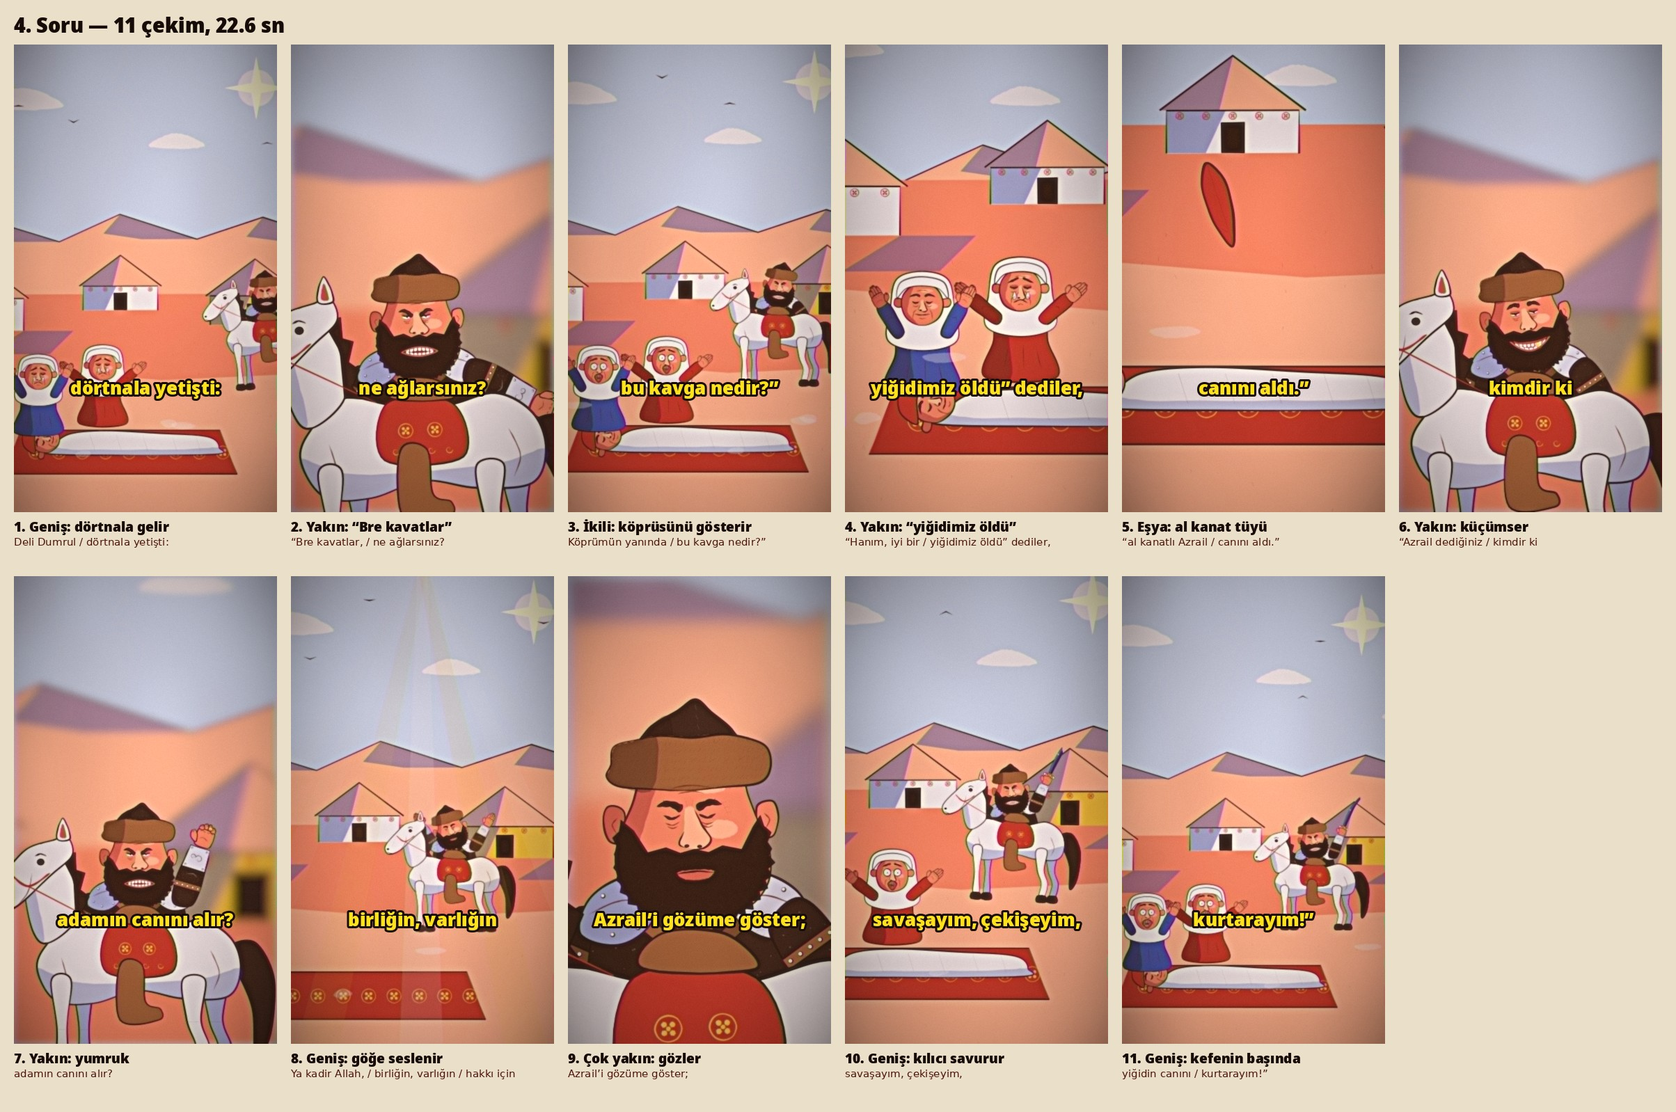
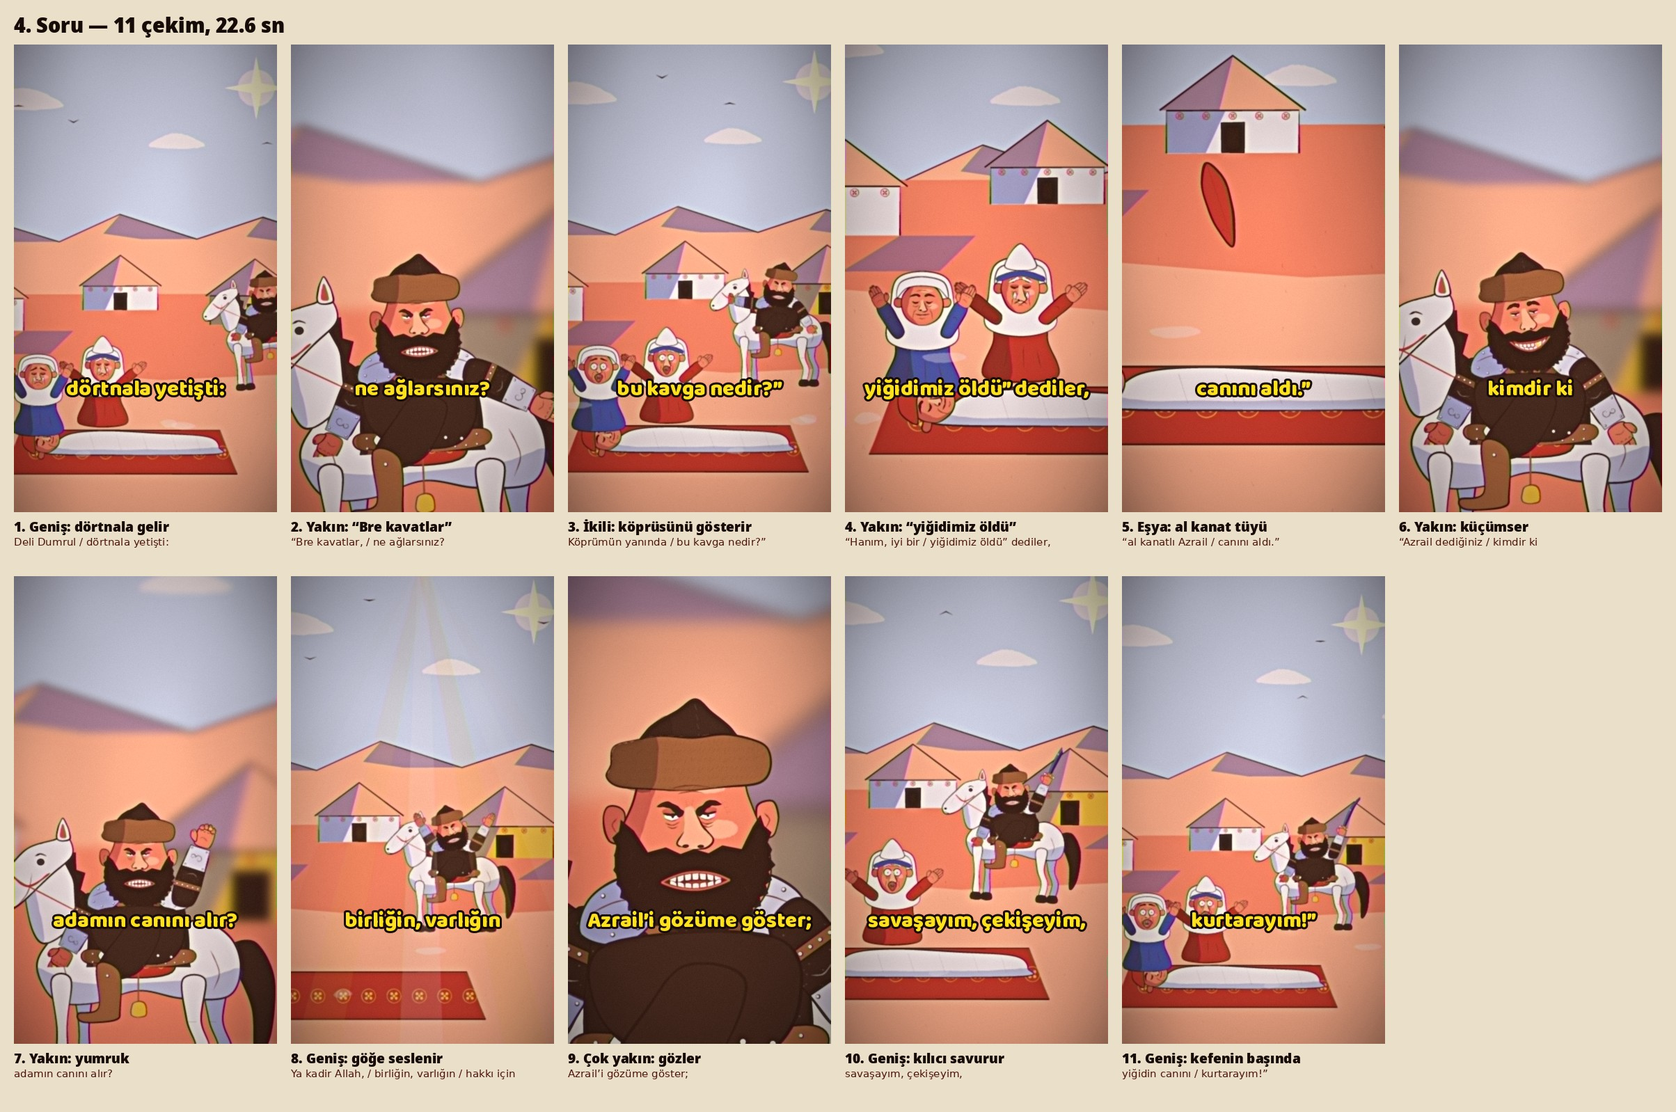
Çizim düzeltmeleri: yerdeki çekimlerin kadrajı, taçlı ulu ağaç, eşin öfkesi, yandan binici, hasta yiğit, üç ayrı yas tutan, otuz üç akçe

diff --git a/shorts/deli_dumrul/scenes.py b/shorts/deli_dumrul/scenes.py
@@ -9,7 +9,7 @@ TITLES = {'kopru': '1. Köprü', 'ovunme': '2. Övünme', 'oba': '3. Oba', 'soru
 
 
 # ----------------------------------------------------------------------------- ekran uzayı çizimleri (eşya çekimleri)
-def fx_coins(n=9, big=False, palm=True):
+def fx_coins(n=9, big=False, palm=True, small=False):
     """Akçeler: avuç açıksa içine birikir, değilse karenin önünden yağar."""
     def fx(u):
         s = at(C.hand(True, 'open', True, 1), 560, 1180, 4.6, 196) if palm else ''
@@ -19,7 +19,7 @@ def fx_coins(n=9, big=False, palm=True):
             k = min(1.0, max(0.0, (u - t0) / 0.18))
             if k <= 0: continue
             y = lerp(-80, (1010 + dy * 0.8) if palm else 2100, ease(k) if palm else k) - (math.sin(k * 3.14) * 40 if k < 1 and palm else 0)
-            s += K.coin(540 + dx * (0.7 if palm else 2.4), y, 44 if big else 36)
+            s += K.coin(540 + dx * (0.7 if palm else 2.4), y, 44 if big else 24 if small else 36)
         return s
     return fx
 
@@ -81,7 +81,7 @@ SCENES['kopru'] = [
          a=[('dumrul', dict(D, e='smug', armR=-20), dict(armR=-96, hr=8), 0.2)]),
     dict(n='İkili: bezirgân köprüde', c='Geçenden', set='bridge', cam=[(560, 1020, 1.6), (620, 1000, 1.8)],
          a=[('dumrul', dict(D, x=800, y=826, e='smug', armL=10), dict(armL=74, hr=-5), 0.3), ('trav', dict(x=300, y=1010, s=0.42, e='fear', walk=True), dict(x=520, y=948, glide=True), 0.0)]),
-    dict(n='Eşya: otuz üç akçe', c='otuz üç akçe alır,', set='bridge', cam=[(700, 1000, 2.2), (720, 1000, 2.3)], blur=True, a=[], fx=fx_coins(11)),
+    dict(n='Eşya: otuz üç akçe', c='otuz üç akçe alır,', set='bridge', cam=[(700, 1000, 2.2), (720, 1000, 2.3)], blur=True, a=[], fx=fx_coins(33, small=True)),
     dict(n='Tepki: çayın içinden kaçan', c='geçmeyenden', set='bridge', cam=[(640, 1300, 1.35), (800, 1320, 1.5)],
          a=[('dumrul', dict(D, e='neutral'), dict(e='anger', armL=44, hr=10), 0.35), ('trav', dict(x=420, y=1420, s=0.36, e='fear', walk=True), dict(x=900, y=1400, glide=True), 0.0)]),
     dict(n='Yakın: döve döve', c='döve döve', set='bridge', cam=[(760, 1330, 1.8), (760, 1330, 2.05)], punch=True, still=0.5,
@@ -113,9 +113,9 @@ SCENES['oba'] = [
     dict(n='Geniş: oba', c='Bir gün köprüsünün yamacına|bir bölük oba konmuştu.', set='oba', cam=[(750, 1080, 1.0), (750, 1160, 1.2)],
          a=[('mourner0', dict(x=420, y=1330, s=0.42, e='neutral', walk=True), dict(x=560, glide=True), 0.0), ('extra1', dict(x=1080, y=1340, s=0.44)), ('boy0', dict(x=880, y=1440, s=0.5))]),
     dict(n='Yakın: hasta yiğit', c='O obada iyi, güzel|bir yiğit hastalandı;', set='oba', cam=[(560, 1640, 1.8), (640, 1650, 2.05)],
-         a=[DEAD, ('mourner1', dict(M[1], x=820, e='neutral'), dict(e='fear'), 0.5)]),
+         a=[('dead', dict(DEAD[1], sick=True)), ('mourner1', dict(M[1], x=820, e='neutral'), dict(e='fear'), 0.5)]),
     dict(n='Geniş: ışık söner', c='Allah’ın buyruğuyla öldü.', set='oba', cam=[(760, 1560, 1.5), (760, 1580, 1.6)],
-         a=[DEAD, ('mourner1', dict(M[1], x=820, e='fear'), dict(e='shock'), 0.4)], fx=fx_fade_beam()),
+         a=[('dead', dict(DEAD[1], sick=True), dict(sick=False), 0.55), ('mourner1', dict(M[1], x=820, e='fear'), dict(e='shock'), 0.6)], fx=fx_fade_beam()),
     dict(n='Yakın: “oğul”', c='Kimi “oğul” diye,', set='oba', cam=[(480, 1420, 2.2), (480, 1410, 2.5)], punch=True, blur=True,
          a=[('mourner0', dict(M[0], e='grief', shake=1))]),
     dict(n='Yakın: “kardeş”', c='kimi “kardeş” diye ağladı;', set='oba', cam=[(1040, 1420, 2.2), (1040, 1410, 2.5)], punch=True, blur=True,
@@ -244,8 +244,8 @@ def both(*fns):
 
 
 FD = dict(x=880, y=1215, s=0.6)                 # Dumrul sofrada
-LIE = dict(x=560, y=1600, s=0.5, rot=-90, z=1700)   # Dumrul sırtüstü yerde; başı solda
-AZC = dict(x=700, y=1280, s=0.34, z=1800)       # Azrail göğsünün üstünde
+LIE = dict(x=560, y=1400, s=0.5, rot=-90, z=1700)   # Dumrul sırtüstü yerde; başı solda
+AZC = dict(x=700, y=1080, s=0.34, z=1800)       # Azrail göğsünün üstünde
 CROWD = [('extra1', dict(x=620, y=1340, s=0.62, robe=C.GOLD)), ('extra0', dict(x=1180, y=1420, s=0.66, robe=C.COBALT, flip=True)), ('extra2', dict(x=110, y=1668, s=0.72)), ('extra2', dict(x=1390, y=1330, s=0.56, robe=C.RED, flip=True))]
 
 SCENES['at'] = [
@@ -266,38 +266,38 @@ SCENES['at'] = [
          a=[('rider', dict(x=900, y=1400, s=0.5, e='neutral', flip=True), dict(spooked=True, e='shock'), 0.2), ('azrail', dict(x=1330, y=1500, s=0.5, e='wrath', spread=0.4), dict(y=1160, spread=1.4, armL=40, armR=-40), 0.1)]),
     dict(n='Geniş: at şaha kalkar', c='At ürktü,', set='steppe', cam=[(900, 1200, 1.3), (880, 1180, 1.45)], punch=True,
          a=[('rider', dict(x=900, y=1400, s=0.5, e='shock', flip=True, spooked=True, armL=120, armR=-120), dict(rot=-26, y=1360), 0.05), ('azrail', dict(x=1330, y=1160, s=0.5, e='wrath', spread=1.4, armL=40, armR=-40))]),
-    dict(n='Geniş: yere çarpar', c='Dumrul’u kaldırıp|yere vurdu.', set='steppe', cam=[(700, 1300, 1.3), (640, 1420, 1.5)],
+    dict(n='Geniş: yere çarpar', c='Dumrul’u kaldırıp|yere vurdu.', set='steppe', cam=[(700, 1180, 1.3), (640, 1250, 1.5)],
          a=[('horse', dict(x=1080, y=1400, s=0.5, flip=True, spooked=True, rot=-14, gallop=True), dict(x=1500, glide=True), 0.2),
             ('dumrul', dict(x=860, y=1000, s=0.5, e='shock', rot=-30, armL=120, armR=-120, z=1700), dict(LIE, glide=True), 0.0)], fx=fx_impact(470, 1250), still=0.8),
-    dict(n='Yakın: sersemlemiş', c='Kara başı bunaldı;', set='steppe', cam=[(460, 1560, 2.4), (470, 1560, 2.6)], blur=True,
-         a=[('dumrul', dict(LIE, e='shock', shake=0.6))], fx=fx_stars(430, 800)),
-    dict(n='Geniş: Azrail göğsüne konar', c='ak göğsünün üstüne|Azrail basıp kondu.', set='steppe', cam=[(700, 1400, 1.5), (700, 1420, 1.7)], hold=0.8,
-         a=[('dumrul', dict(LIE, e='shock', armL=60, armR=-60)), ('azrail', dict(AZC, y=700, e='wrath', spread=1.4), dict(y=1280, spread=1.0), 0.05)]),
+    dict(n='Yakın: sersemlemiş', c='Kara başı bunaldı;', set='steppe', cam=[(500, 1320, 1.9), (500, 1320, 2.1)], blur=True,
+         a=[('dumrul', dict(LIE, e='shock', shake=0.6))], fx=fx_stars(470, 760)),
+    dict(n='Geniş: Azrail göğsüne konar', c='ak göğsünün üstüne|Azrail basıp kondu.', set='steppe', cam=[(700, 1200, 1.5), (700, 1220, 1.7)], hold=0.8,
+         a=[('dumrul', dict(LIE, e='shock', armL=60, armR=-60)), ('azrail', dict(AZC, y=500, e='wrath', spread=1.4), dict(y=1080, spread=1.0), 0.05)]),
 ]
 
 SCENES['yalvaris'] = [
-    dict(n='Yakın: “aman!”', c='“Bre Azrail, aman!', set='steppe', cam=[(460, 1560, 2.3), (470, 1556, 2.6)], punch=True, blur=True,
+    dict(n='Yakın: “aman!”', c='“Bre Azrail, aman!', set='steppe', cam=[(500, 1320, 1.9), (500, 1320, 2.2)], punch=True, blur=True,
          a=[('dumrul', dict(LIE, e='shock', shake=1))]),
-    dict(n='İkili: göğsünde Azrail', c='Ben seni böyle bilmezdim,', set='steppe', cam=[(680, 1400, 1.6), (700, 1390, 1.75)],
+    dict(n='İkili: göğsünde Azrail', c='Ben seni böyle bilmezdim,', set='steppe', cam=[(680, 1200, 1.6), (700, 1190, 1.75)],
          a=[('dumrul', dict(LIE, e='shock', armL=70, armR=-70)), ('azrail', dict(AZC, e='stern'))]),
-    dict(n='Yakın: Azrail, kıpırtısız', c='uğrulayın can aldığını|duymazdım.', set='steppe', cam=[(700, 1230, 3.2), (700, 1226, 3.5)], blur=True,
+    dict(n='Yakın: Azrail, kıpırtısız', c='uğrulayın can aldığını|duymazdım.', set='steppe', cam=[(700, 1030, 3.2), (700, 1026, 3.5)], blur=True,
          a=[('azrail', dict(AZC, e='stern'))]),
     dict(n='Geniş: dağlar, bağlar', c='Bizim dağlarımızın bağları,', set='bridge', cam=[(300, 860, 1.6), (1100, 840, 1.6)], a=[], fx=fx_big(grapes, 820, 1040, 1.6, 8, 8)),
     dict(n='Eşya: kara salkım', c='o bağların|kara salkımlı üzümü,', set='bridge', cam=[(700, 860, 1.8), (720, 850, 1.9)], blur=True, a=[], fx=fx_big(grapes, 540, 900, 3.6, 0, 10)),
     dict(n='Eşya: al şarap', c='o üzümün|al şarabı olur.', set='feast', cam=[(700, 1200, 1.8), (700, 1200, 1.9)], blur=True, nofore=True, a=[], fx=fx_pour()),
-    dict(n='Yakın: sarhoş bahanesi', c='Şaraplıydım,|ne söylediğimi bilmedim.', set='steppe', cam=[(460, 1560, 2.3), (480, 1556, 2.5)], blur=True,
-         a=[('dumrul', dict(LIE, e='smug', shake=0.5))], fx=fx_stars(430, 800, 3, 200)),
-    dict(n='İkili: iki eliyle yalvarır', c='Beyliğe usanmadım,|yiğitliğe doymadım;', set='steppe', cam=[(680, 1420, 1.6), (680, 1410, 1.75)],
+    dict(n='Yakın: sarhoş bahanesi', c='Şaraplıydım,|ne söylediğimi bilmedim.', set='steppe', cam=[(500, 1320, 1.9), (510, 1320, 2.1)], blur=True,
+         a=[('dumrul', dict(LIE, e='smug', shake=0.5))], fx=fx_stars(470, 760, 3, 200)),
+    dict(n='İkili: iki eliyle yalvarır', c='Beyliğe usanmadım,|yiğitliğe doymadım;', set='steppe', cam=[(680, 1220, 1.6), (680, 1210, 1.75)],
          a=[('dumrul', dict(LIE, e='shock', armL=40, armR=-40), dict(armL=130, armR=-130), 0.15), ('azrail', dict(AZC, e='stern'))]),
-    dict(n='Çok yakın: korku', c='canımı alma!”', set='steppe', cam=[(440, 1568, 3.6), (440, 1566, 4.2)], punch=True, blur=True,
+    dict(n='Çok yakın: korku', c='canımı alma!”', set='steppe', cam=[(470, 1350, 3.0), (470, 1350, 3.5)], punch=True, blur=True,
          a=[('dumrul', dict(LIE, e='shock', shake=1))]),
-    dict(n='Yakın: Azrail konuşur', c='Azrail dedi:|“Bre deli kavat,', set='steppe', cam=[(700, 1230, 3.0), (700, 1226, 3.3)], blur=True,
+    dict(n='Yakın: Azrail konuşur', c='Azrail dedi:|“Bre deli kavat,', set='steppe', cam=[(700, 1030, 3.0), (700, 1026, 3.3)], blur=True,
          a=[('azrail', dict(AZC, e='stern'), dict(e='speak'), 0.3)]),
-    dict(n='Geniş: göğü gösterir', c='bana ne yalvarırsın?|Allah’a yalvar.', set='steppe', cam=[(700, 1380, 1.5), (700, 1180, 1.5)],
+    dict(n='Geniş: göğü gösterir', c='bana ne yalvarırsın?|Allah’a yalvar.', set='steppe', cam=[(700, 1180, 1.5), (700, 980, 1.5)],
          a=[('dumrul', dict(LIE, e='shock')), ('azrail', dict(AZC, e='speak', armR=-10), dict(armR=-168), 0.15)], fx=fx_rays(0.35)),
-    dict(n='Yakın: boş eller', c='Benim elimde ne var;', set='steppe', cam=[(700, 1300, 2.4), (700, 1296, 2.6)], blur=True,
+    dict(n='Yakın: boş eller', c='Benim elimde ne var;', set='steppe', cam=[(700, 1100, 2.4), (700, 1096, 2.6)], blur=True,
          a=[('azrail', dict(AZC, e='neutral', armL=10, armR=-10), dict(armL=62, armR=-62), 0.15)]),
-    dict(n='Geniş: buyruk kulu', c='ben de bir|yumuş oğlanıyım.”', set='steppe', cam=[(700, 1400, 1.6), (700, 1340, 1.4)], hold=0.6,
+    dict(n='Geniş: buyruk kulu', c='ben de bir|yumuş oğlanıyım.”', set='steppe', cam=[(700, 1200, 1.6), (700, 1140, 1.4)], hold=0.6,
          a=[('dumrul', dict(LIE, e='shock')), ('azrail', dict(AZC, e='neutral', armL=62, armR=-62), dict(hr=16, spread=0.6), 0.2)], fx=fx_rays(0.4)),
 ]
 
@@ -401,7 +401,7 @@ SCENES['veda'] = [
 
 SCENES['es'] = [
     dict(n='Yakın: “ne dersin?”', c='Kadın dedi:|“Ne dersin, ne söylersin?', set='inside', cam=[(920, 1180, 2.3), (920, 1176, 2.6)], punch=True, blur=True,
-         a=[('wife', dict(WI, e='grief'), dict(e='anger'), 0.3)]),
+         a=[('wife', dict(WI, e='grief'), dict(e='scold'), 0.3)]),
     dict(n='İkili: elini uzatır', c='Göz açıp gördüğüm,|gönül verip sevdiğim|koç yiğidim!', set='inside', cam=[(760, 1220, 1.6), (760, 1216, 1.75)],
          a=[('dumrul', dict(DI, x=600, e='neutral', hr=10)), ('wife', dict(WI, e='grief', armL=12), dict(armL=96, e='joy'), 0.2)]),
     dict(n='Geniş: dağlar', c='Senden sonra kara dağlarını|ben neyleyim?', set='steppe', cam=[(1100, 880, 1.5), (500, 900, 1.5)], a=[]),
@@ -410,9 +410,9 @@ SCENES['es'] = [
     dict(n='Tepki: sırtını dönen ana baba', c='Senin o muhannet|anan baban', set='inside', cam=[(700, 1260, 1.4), (720, 1260, 1.5)],
          a=[('father', dict(FA, x=480, e='refuse', flip=True)), ('mother', dict(MO, x=900, e='refuse', hr=14))]),
     dict(n='Yakın: öfke', c='bir canda ne var ki|sana kıyamamışlar?', set='inside', cam=[(920, 1180, 2.5), (920, 1176, 2.8)], blur=True,
-         a=[('wife', dict(WI, e='anger', shake=0.6))]),
+         a=[('wife', dict(WI, e='scold', shake=0.6))]),
     dict(n='Geniş: yeri, göğü gösterir', c='Yer tanık olsun,|gök tanık olsun,', set='oba', cam=[(760, 1500, 1.3), (760, 1000, 1.3)],
-         a=[('wife', dict(x=760, y=1300, s=0.5, e='anger', armR=-12), dict(armR=-170, armL=30), 0.4)]),
+         a=[('wife', dict(x=760, y=1300, s=0.5, e='scold', armR=-12), dict(armR=-170, armL=30), 0.4)]),
     dict(n='Yakın: ışık altında', c='kadir Tanrı|tanık olsun:', set='oba', cam=[(760, 1230, 2.0), (760, 1220, 2.2)], blur=True,
          a=[('wife', dict(x=760, y=1300, s=0.5, e='grief', armL=150, armR=-150))], fx=fx_rays(0.5)),
     dict(n='İkili: canını sunar', c='benim canım|senin canına|kurban olsun!”', set='inside', cam=[(760, 1240, 1.5), (760, 1230, 1.65)], punch=True, hold=0.8,
@@ -467,7 +467,7 @@ SCENES['dede'] = [
     dict(n='Yakın: dua', c='Sonra dua etti:', set='feast', cam=[(640, 1130, 2.0), (640, 1100, 2.2)], blur=True, nofore=True,
          a=[('dede', dict(DK, e='neutral', hr=-10))], fx=fx_rays(0.35)),
     dict(n='Geniş: kara dağlar', c='“Yerli kara dağların|yıkılmasın.', set='steppe', cam=[(500, 900, 1.5), (1100, 880, 1.5)], a=[]),
-    dict(n='Eşya: ulu ağaç', c='Gölgeli ulu ağacın|kesilmesin.', set='steppe', cam=[(260, 1100, 1.6), (260, 980, 1.8)], a=[]),
+    dict(n='Eşya: ulu ağaç', c='Gölgeli ulu ağacın|kesilmesin.', set='steppe', cam=[(330, 980, 1.25), (330, 880, 1.45)], a=[]),
     dict(n='Eşya: coşkun su', c='Coşkun akan güzel suyun|kurumasın.', set='river', cam=[(560, 1500, 1.4), (940, 1500, 1.5)], a=[]),
     dict(n='Yakın: son söz', c='Kadir Tanrı seni|namerde muhtaç etmesin.”', set='feast', cam=[(640, 1130, 2.0), (640, 1140, 1.7)], nofore=True, hold=1.5,
          a=[('dede', dict(DK, e='joy'))], fx=fx_rays(0.3)),

diff --git a/shorts/deli_dumrul/cast2.py b/shorts/deli_dumrul/cast2.py
@@ -12,6 +12,7 @@ EX = {
     'anger':   dict(b=0.6, by=8, open=0.7, m='snarl'),
     'joy':     dict(b=-0.12, by=-5, open=0.5, m='smile'),
     'refuse':  dict(b=-0.35, by=-7, open=0.0, m='purse'),
+    'scold':   dict(b=0.5, by=6, open=0.85, m='frown'),            # çatık kaş, sıkılmış ağız: öfke ama diş göstermeden
     'shock':   dict(b=-0.3, by=-18, open=1.0, m='gape', shock=True),
 }
 DROP = {'o': 0.07, 'gape': 0.2, 'snarl': 0.05, 'grin': 0.04}
@@ -257,16 +258,30 @@ def mourner(kind=0, expr='grief'):
     s = robe(96, 132, 250, col, name)
     reseed(name + '-scarf')
     s += blob([(-120, -60), (-96, -170), (0, -200), (96, -170), (120, -60), (128, 60), (0, 96), (-128, 60)], PALE, 3.2)
-    f, d = gface(name, 78, 80, 1.0 + 0.1 * kind, (40 + kind * 8, 18, 0.1 * kind), (0.32, -0.1, 12, 8), (INK, 7), (0.36, 0.46), expr, bags=1, wrinkles=1)
+    f, d = gface(name, [78, 72, 82][kind % 3], [80, 88, 76][kind % 3], [1.0, 0.9, 1.15][kind % 3], ([40, 58, 34][kind % 3], [18, 22, 15][kind % 3], [0.0, 0.5, 0.0][kind % 3]), (0.32, -0.1, 12, 8),
+                 ((INK, 7), (PALE, 9), (INK, 6))[kind % 3], (0.36, 0.46), expr, bags=[1, 3, 0][kind % 3], wrinkles=[1, 3, 0][kind % 3], lash=kind % 3 == 2)
     s += group(f, 0, -78)
     s += blob([(-96, -100), (-80, -160), (0, -180), (80, -160), (96, -100), (60, -136), (0, -146), (-60, -136)], PALE, 2.8)
+    if kind % 3 == 1:    # yaşlı: sivri tepelikli örtü, alnında al bant
+        s += blob([(-60, -168), (0, -250), (60, -168), (0, -150)], PALE, 2.8) + blob([(-84, -128), (0, -150), (84, -128), (80, -110), (0, -130), (-80, -110)], RED if col != RED else COBALT, 2.4)
+    elif kind % 3 == 2:  # genç: örtünün altından iki örgü, altın pullar
+        for sx in (-1, 1):
+            s += ''.join(fill(ellipse(sx * (104 - k * 2), -40 + k * 34, 14, 19, 7, 0.1), INK, 0.5) for k in range(6)) + blob(ellipse(sx * 94, 170, 9, 11, 6), GOLD, 2.0)
+        s += ''.join(blob(ellipse(x, -134 + abs(x) * 0.2, 7, 7, 6), GOLD, 1.8) for x in range(-60, 70, 24))
     for sx in (-1, 1): s += group(sleeve(120, 26, col, name, sx > 0, 0.62, 'open', sx), sx * 90, 30, sx * (-150 + kind * 20))
     return s
 
 
-def dead_youth():
-    """Ölü yiğit: ak kefen altında yatar; yalnızca yüzü ve börkü görünür. Baş solda, (0,0) gövdenin ortası."""
+def dead_youth(sick=False):
+    """Yiğit: hastayken altın yorganın altında, gözü açık ve terli; ölünce ak kefen altında. Baş solda, (0,0) gövdenin ortası."""
     reseed('dead')
+    if sick:
+        bl = [(-250, 0), (-200, -54), (-100, -64), (120, -54), (290, -40), (330, 0), (290, 26), (-240, 26)]
+        s = blob([(-330, 6), (-300, -40), (-220, -44), (-200, 20), (-300, 30)], PALE, 3.0)                                # yastık
+        s += blob(bl, GOLD, 3.4) + fill([(-250, 0), (-240, 26), (290, 26), (330, 0), (200, 6), (-200, 8)], COBALT, 1.0, op=0.3) + ''.join(medallion(x, -22, 15, RED, 1.9) for x in range(-150, 280, 86))
+        f, d = gface('dead', 60, 62, 0.95, (34, 13, 0.0), (0.32, -0.1, 11, 8), (INK, 7), (0.3, 0.5), 'grief', bags=1, wrinkles=0)
+        s += group(f + blob([(-70, -30), (-50, -80), (0, -96), (50, -80), (70, -30), (0, -44)], RED, 2.8), -300, -34, -80, 0.9)
+        return s + ''.join(blob([(x, y), (x + 7, y + 16), (x, y + 24), (x - 7, y + 16)], PALE, 1.8) for x, y in ((-262, -96), (-236, -84)))   # ter
     sh = [(-300, 0), (-240, -50), (-100, -64), (120, -54), (290, -40), (330, 0), (290, 26), (-280, 26)]
     s = blob(sh, PALE, 3.4) + fill([(-300, 0), (-280, 26), (290, 26), (330, 0), (200, 6), (-200, 8)], COBALT, 1.0, op=0.3) + ''.join(ink([(x, -50), (x + 20, 14)], 2.0, wob=0.6) for x in (-160, -60, 40, 150, 240))
     f, d = gface('dead', 60, 62, 0.95, (34, 13, 0.0), (0.32, -0.1, 11, 8), (INK, 7), (0.3, 0.5), 'blink', bags=0, wrinkles=0)

diff --git a/shorts/deli_dumrul/sets2.py b/shorts/deli_dumrul/sets2.py
@@ -118,7 +118,15 @@ def steppe_night():
     s = S.sky() + S.back()
     s += fill([(-900, 1210), (W + 900, 1196), (W + 900, H + 900), (-900, H + 900)], COBALT, 1.5, smooth=False)
     s += fill([(300, 1500), (700, 1300), (1300, 1280), (1700, 1420), (1700, 1700), (900, 1820), (300, 1760)], SKIN, 1.4, smooth=False) + fill([(700, 1500), (1100, 1400), (1400, 1460), (1300, 1640), (860, 1700)], SKIN_L, 1.2, smooth=False)
-    s += ink([(210, 1300), (200, 1000), (230, 820)], 26, col=INK, taper=(0.02, 0.4), wob=1.2, press=0.2) + ''.join(ink([(214, 1040 - k * 60), (214 + (-1) ** k * (90 + k * 20), 960 - k * 70)], 9, col=INK, taper=(0.05, 0.8), wob=1.0, smooth=False) for k in range(4))
+    # ulu ağaç: kalın gövde, dallar, geniş gölgeli taç; aya bakan yanı somon
+    s += ink([(330, 1330), (322, 1100), (340, 900)], 54, col=INK, taper=(0.0, 0.3), wob=1.4, press=0.15) + ink([(300, 1340), (250, 1356)], 16, col=INK, taper=(0, 0.8), wob=0.6, smooth=False) + ink([(356, 1340), (410, 1352)], 16, col=INK, taper=(0, 0.8), wob=0.6, smooth=False)
+    s += ''.join(ink([(332, 1080 - k * 50), (332 + (-1) ** k * (130 + k * 26), 960 - k * 74)], 16, col=INK, taper=(0.02, 0.7), wob=1.0, smooth=False) for k in range(4))
+    for cx, cy, r in ((330, 660, 220), (150, 780, 150), (520, 770, 160), (240, 560, 150), (440, 560, 150), (330, 860, 150)):
+        s += fill(ellipse(cx, cy, r, r * 0.82, 11, 0.1), S.NIGHT, 2.0) + ink(ellipse(cx, cy, r, r * 0.82, 11, 0.1), 3.0, closed=True, wob=1.2, press=0.5)
+    for cx, cy, r in ((440, 540, 120), (540, 740, 120), (360, 640, 130)):
+        s += fill([(cx + r * 0.2, cy - r * 0.75), (cx + r * 0.8, cy - r * 0.3), (cx + r * 0.9, cy + r * 0.2), (cx + r * 0.5, cy - r * 0.1)], SKIN_L, 1.5, op=0.9)
+    s += fur([(60, 480), (640, 480), (640, 930), (60, 930)], 9, 34, 12, 0.7, 2.2).replace(f'fill="{INK}"', f'fill="{COBALT}"')
+    s += fill([(120, 1340), (560, 1330), (700, 1420), (200, 1440)], S.NIGHT, 1.2, smooth=False, op=0.6)                 # ağacın gölgesi
     s += ticks([(-200, 1240), (W + 200, 1240), (W + 200, H), (-200, H)], 120, (5, 11), 1.57, 0.5, 2.0)
     for x, y in ((520, 1640), (1180, 1560), (90, 1500)): s += blob(ellipse(x, y, 40, 22, 7, 0.2), COBALT, 2.8) + fill(ellipse(x + 8, y - 6, 20, 8, 6), SKIN_L, 0.6, op=0.8)
     return s

diff --git a/shorts/deli_dumrul/engine.py b/shorts/deli_dumrul/engine.py
@@ -20,8 +20,11 @@ def _rider(p, e):
     """Atlı Dumrul: at sola bakar; binici belden yukarı görünür."""
     h = K.horse(p.get('spooked', False))
     d = '<clipPath id="rc"><rect x="-500" y="-700" width="1000" height="1040"/></clipPath><g clip-path="url(#rc)">' + C.dumrul(e, p.get('armL', 30), p.get('armR', -30), p.get('hr', 0), p.get('poseR', 'open'), p.get('sword', False)) + '</g>'
-    boot = blob([(-40, 20), (20, 20), (30, 120), (70, 140), (66, 170), (-40, 170)], C.LEATHER, 3.0)
-    return group(d, 0, -330, p.get('lean', 0), 0.62, None, 0, 330) + h + group(boot, -10, -20)
+    reseed('rider-leg')
+    skirt = blob([(-104, -150), (96, -150), (124, -70), (70, -6), (-64, -14), (-124, -76)], C.COAT, 3.4) + ''.join(C.stud(x, -30 + abs(x) * 0.1, 3.4) for x in range(-90, 100, 36))   # atın sırtına yayılan etek
+    thigh = blob([(-10, -120), (60, -96), (10, 10), (-70, 40), (-110, 6), (-60, -70)], C.COAT, 3.2)                      # öne uzanan uyluk
+    boot = blob([(-112, 0), (-52, 18), (-50, 120), (-64, 150), (-150, 156), (-164, 132), (-108, 116)], C.LEATHER, 3.2) + ink([(-110, 40), (-54, 52)], 2.0, wob=0.3, smooth=False) + C.stud(-84, 30, 3.4)
+    return h + group(d, 0, -330, p.get('lean', 0), 0.62, None, 0, 330) + skirt + thigh + boot
 
 
 KINDS = {
@@ -34,7 +37,7 @@ KINDS = {
     'boy0': (0, lambda p, e: K.boy(0, e)), 'boy1': (0, lambda p, e: K.boy(1, e)),
     'mourner0': (250, lambda p, e: K.mourner(0, e)), 'mourner1': (250, lambda p, e: K.mourner(1, e)), 'mourner2': (250, lambda p, e: K.mourner(2, e)),
     'trav': (430, lambda p, e: K.traveller(e)),
-    'dead': (30, lambda p, e: K.dead_youth()),
+    'dead': (30, lambda p, e: K.dead_youth(p.get('sick', False))),
     'horse': (330, lambda p, e: K.horse(p.get('spooked', False))),
     'rider': (330, _rider),
     'falcon': (0, lambda p, e: K.falcon()),
